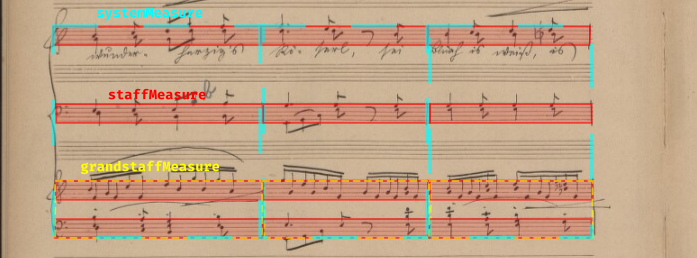
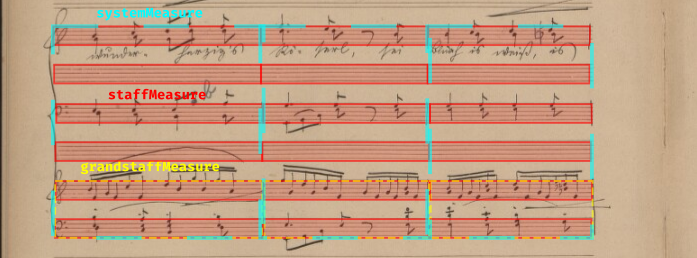
Adjusted emptyStaff definition to better harmonize

diff --git a/app/PageMetadata.py b/app/PageMetadata.py
@@ -70,7 +70,7 @@ class PageMetadata:
     20th century editions of Renaissance music). A specific year
     is usually very hard to pinpoint so instead this field is
     a string which allows for best-effort description of the year
-    range if a singular year may not be pinned down.
+    range if a singular year cannot be pinned down.
     Should be null if unknown."""
 
     page_number: int | str | None

diff --git a/docs/musicorpus-specification/musicorpus-specification.md b/docs/musicorpus-specification/musicorpus-specification.md
@@ -512,7 +512,7 @@ Then come fields related to the source:
 - **`institution_local_siglum`**: The abbreviation by which the institution refers to itself. Should be `false` if the source document is not held in an institution.
 - **`shelfmark`**: Identifies the source (manuscript, print, ...) within the institution's collection. Same as RISM shelfmark. Should be `null` if unknown. Should be `false` if the source document is not held in an institution.
 - **`rism_id_number`**: If the source is catalogued in RISM, then this should be given. This field acts as a fallback if `shelfmark` does not exist. Should be `false` if not catalogued or `null` if unknown.
-- **`date`**: The year when was the source created. This can be very different from when the music therein was composed (e.g. 20th century editions of Renaissance music). A specific year is usually very hard to pinpoint so instead this field is a string which allows for best-effort description of the year range if a singular year may not be pinned down. Should be `null` if unknown.
+- **`date`**: The year when was the source created. This can be very different from when the music therein was composed (e.g. 20th century editions of Renaissance music). A specific year is usually very hard to pinpoint so instead this field is a string which allows for best-effort description of the year range if a singular year cannot be pinned down. Should be `null` if unknown.
 - **`page_number`**: Some identification of the image within the source. Can be just a number, or foliation (e.g. f55v). Intended to be human-readable. Should be `null` if unknown.
 - **`page_size`**: Size of the physical page/book in millimeters, `[width, height]`. It may be used to estimate DPI if DPI is not explicitly provided (with estimation error given by the margin around the page in the page scan image). Should be `null` if unknown. Also, individual dimensions may be `null` if only one dimension is known.
 - **`dpi`**: Actual DPI at which the image was scanned. Ideally as precise as possible - estimated via color calibration tables or rulers. Should be `null` if unknown.
@@ -842,7 +842,7 @@ The `page_to_local` field is a mapping dictionary, that maps COCO annotation obj
 Each page may contain a `layout.json` file. This is a COCO object-detection file with bounding box annotations of the following objects:
 
 - **`staff`**: A staff that participates in music notation.
-- **`emptyStaff`**: Empty staff that does not contain any music (silent instruments in particella are not empty staves - they contain music, it's just silence; empty staves are staves that were drawn on the page, but were not used for notating music - they could be used for spacing, text, lyrics etc.).
+- **`emptyStaff`**: An empty staff that does not contain any music, usually used for spacing, lyrics or song title. Empty staves inside systems (covered by brackets or braces) are not considered empty staves, instead are treated as regular staves with empty musical content. These are very common in particellas. This decision was made to aid harmonization with MuNG and MusicXML transcriptions.
 - **`grandstaff`**: A pair of staves that looks like a piano grandstaff (either has true pianoform music, or has the curly brace, or has the G-clef F-clef combination). It may also be a guitar, harp, or a pair of violins - appearance is more important then semantics.
 - **`system`**: A set of staves that play simultaneously (multiple instruments).
 - **`staffMeasure`**: One measure within a `staff`. Empty space on a staff is NOT a staff measure.
